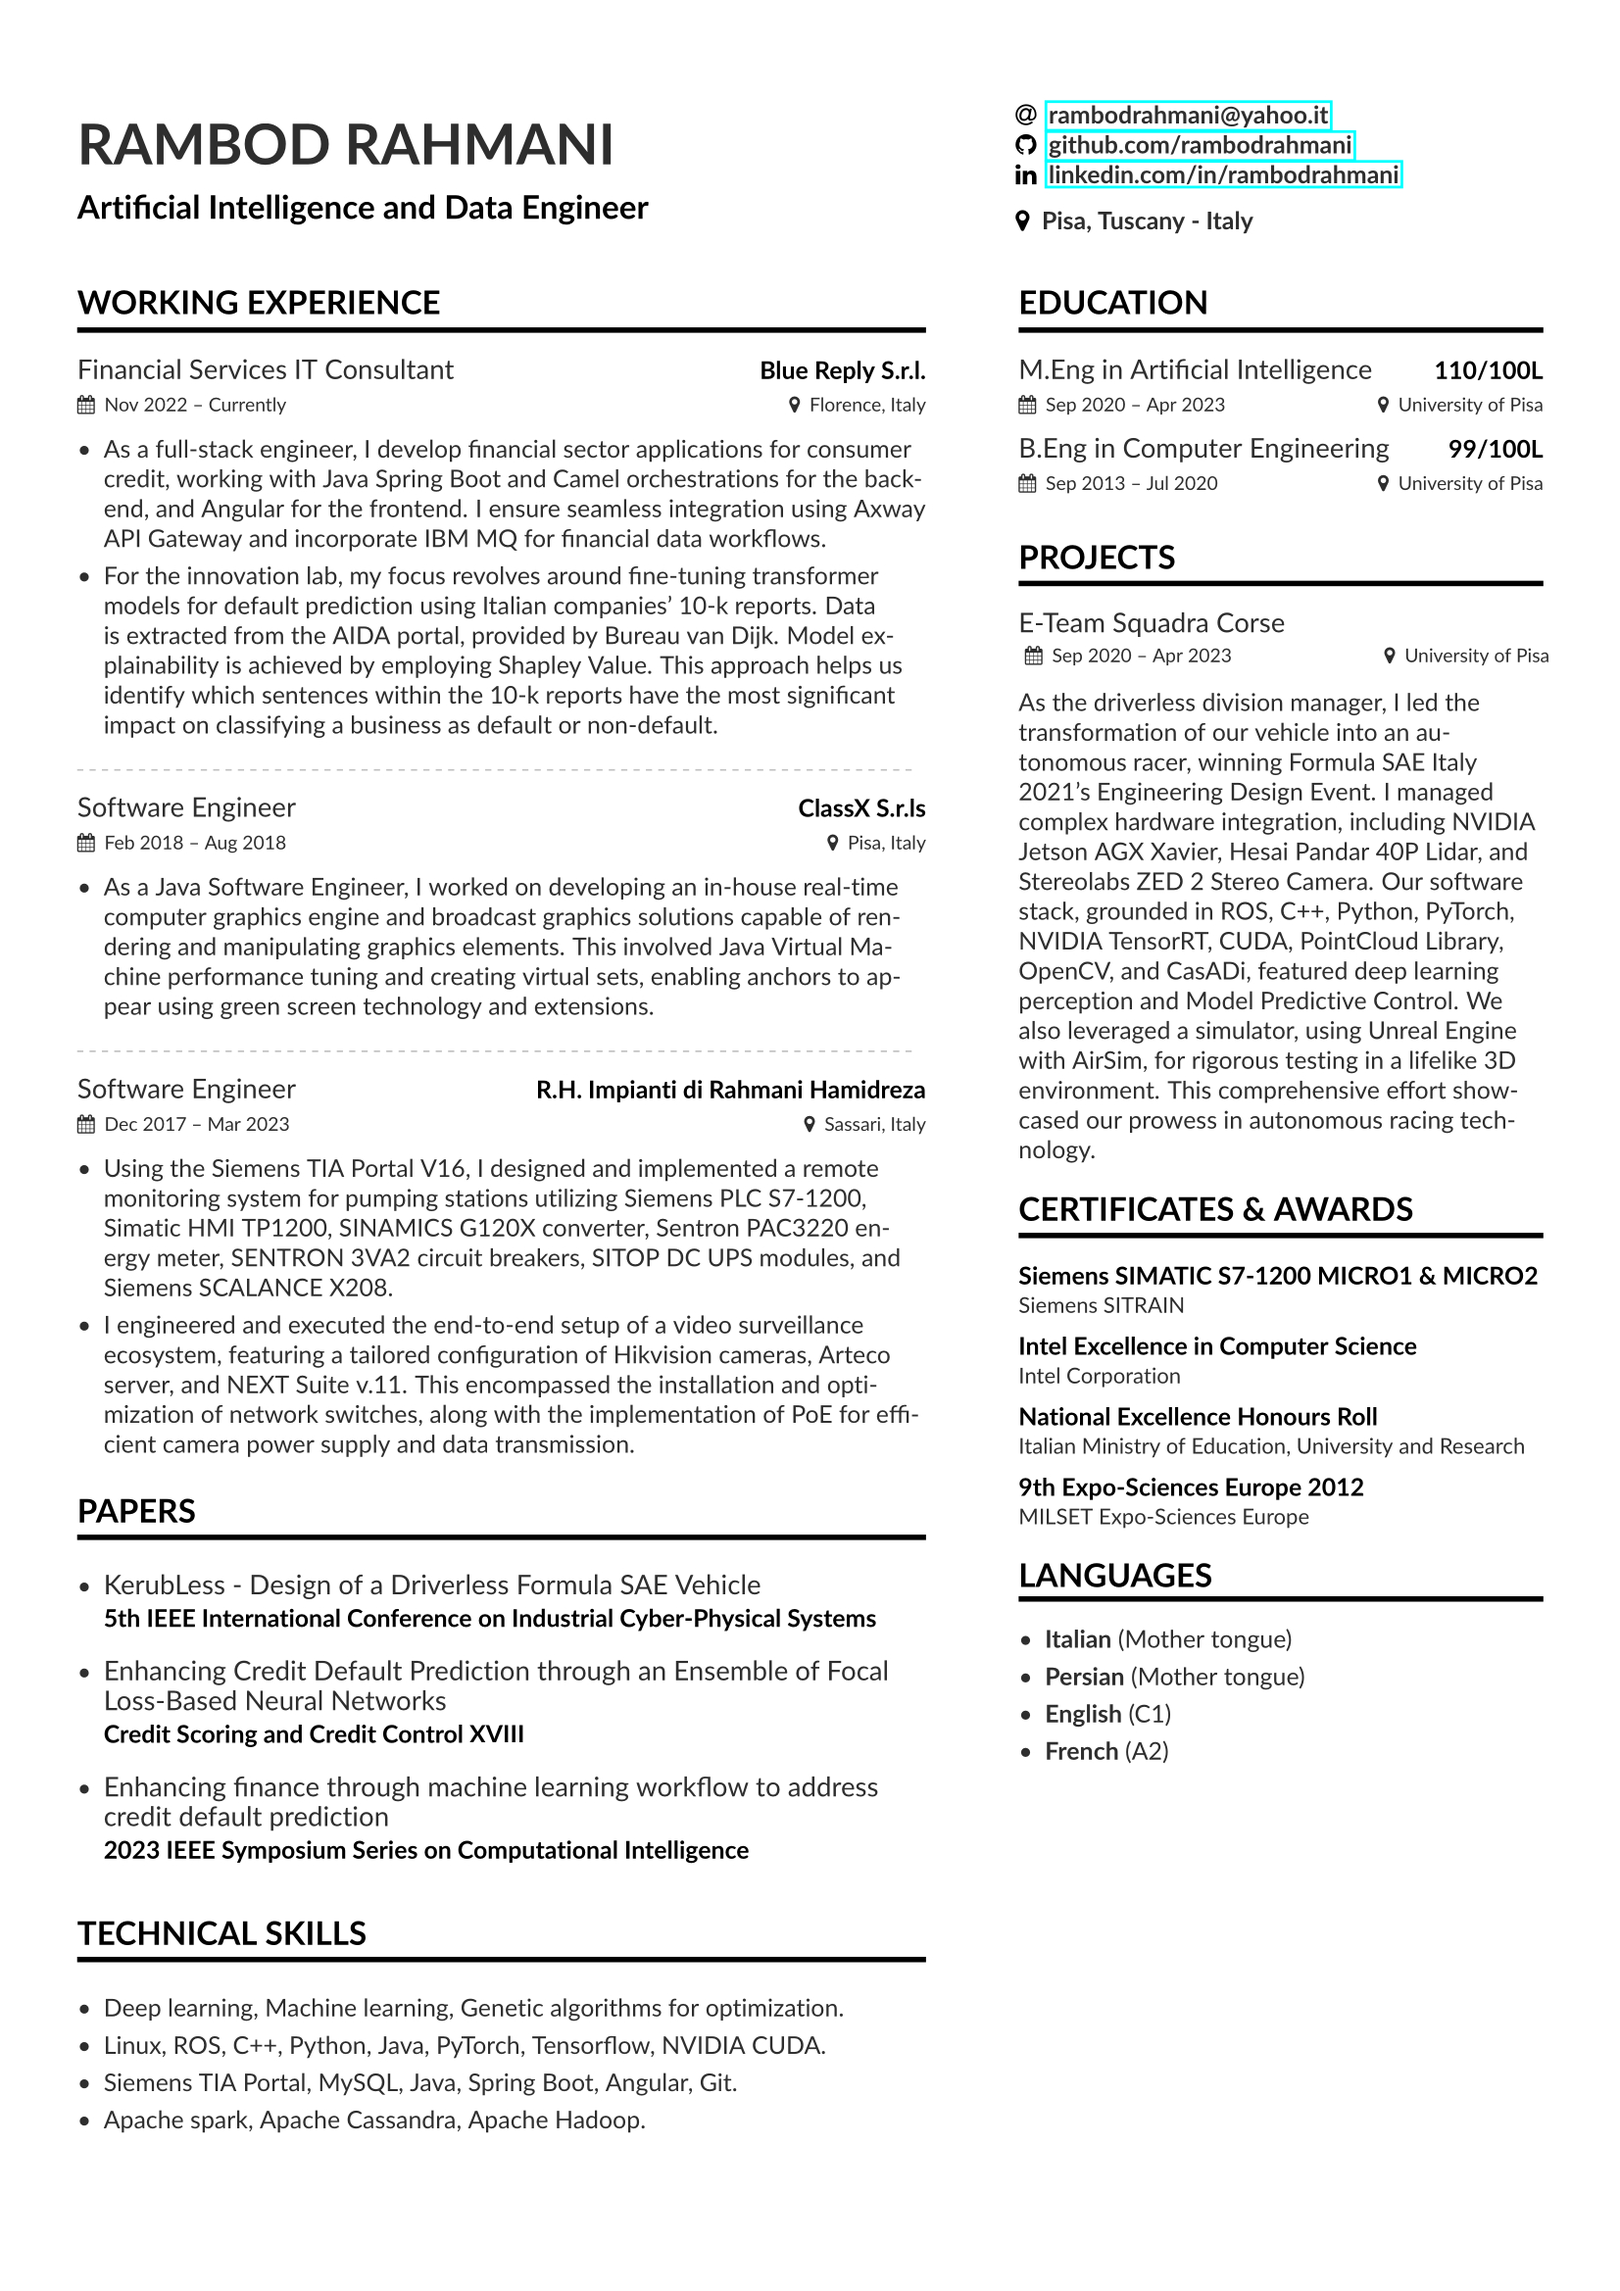
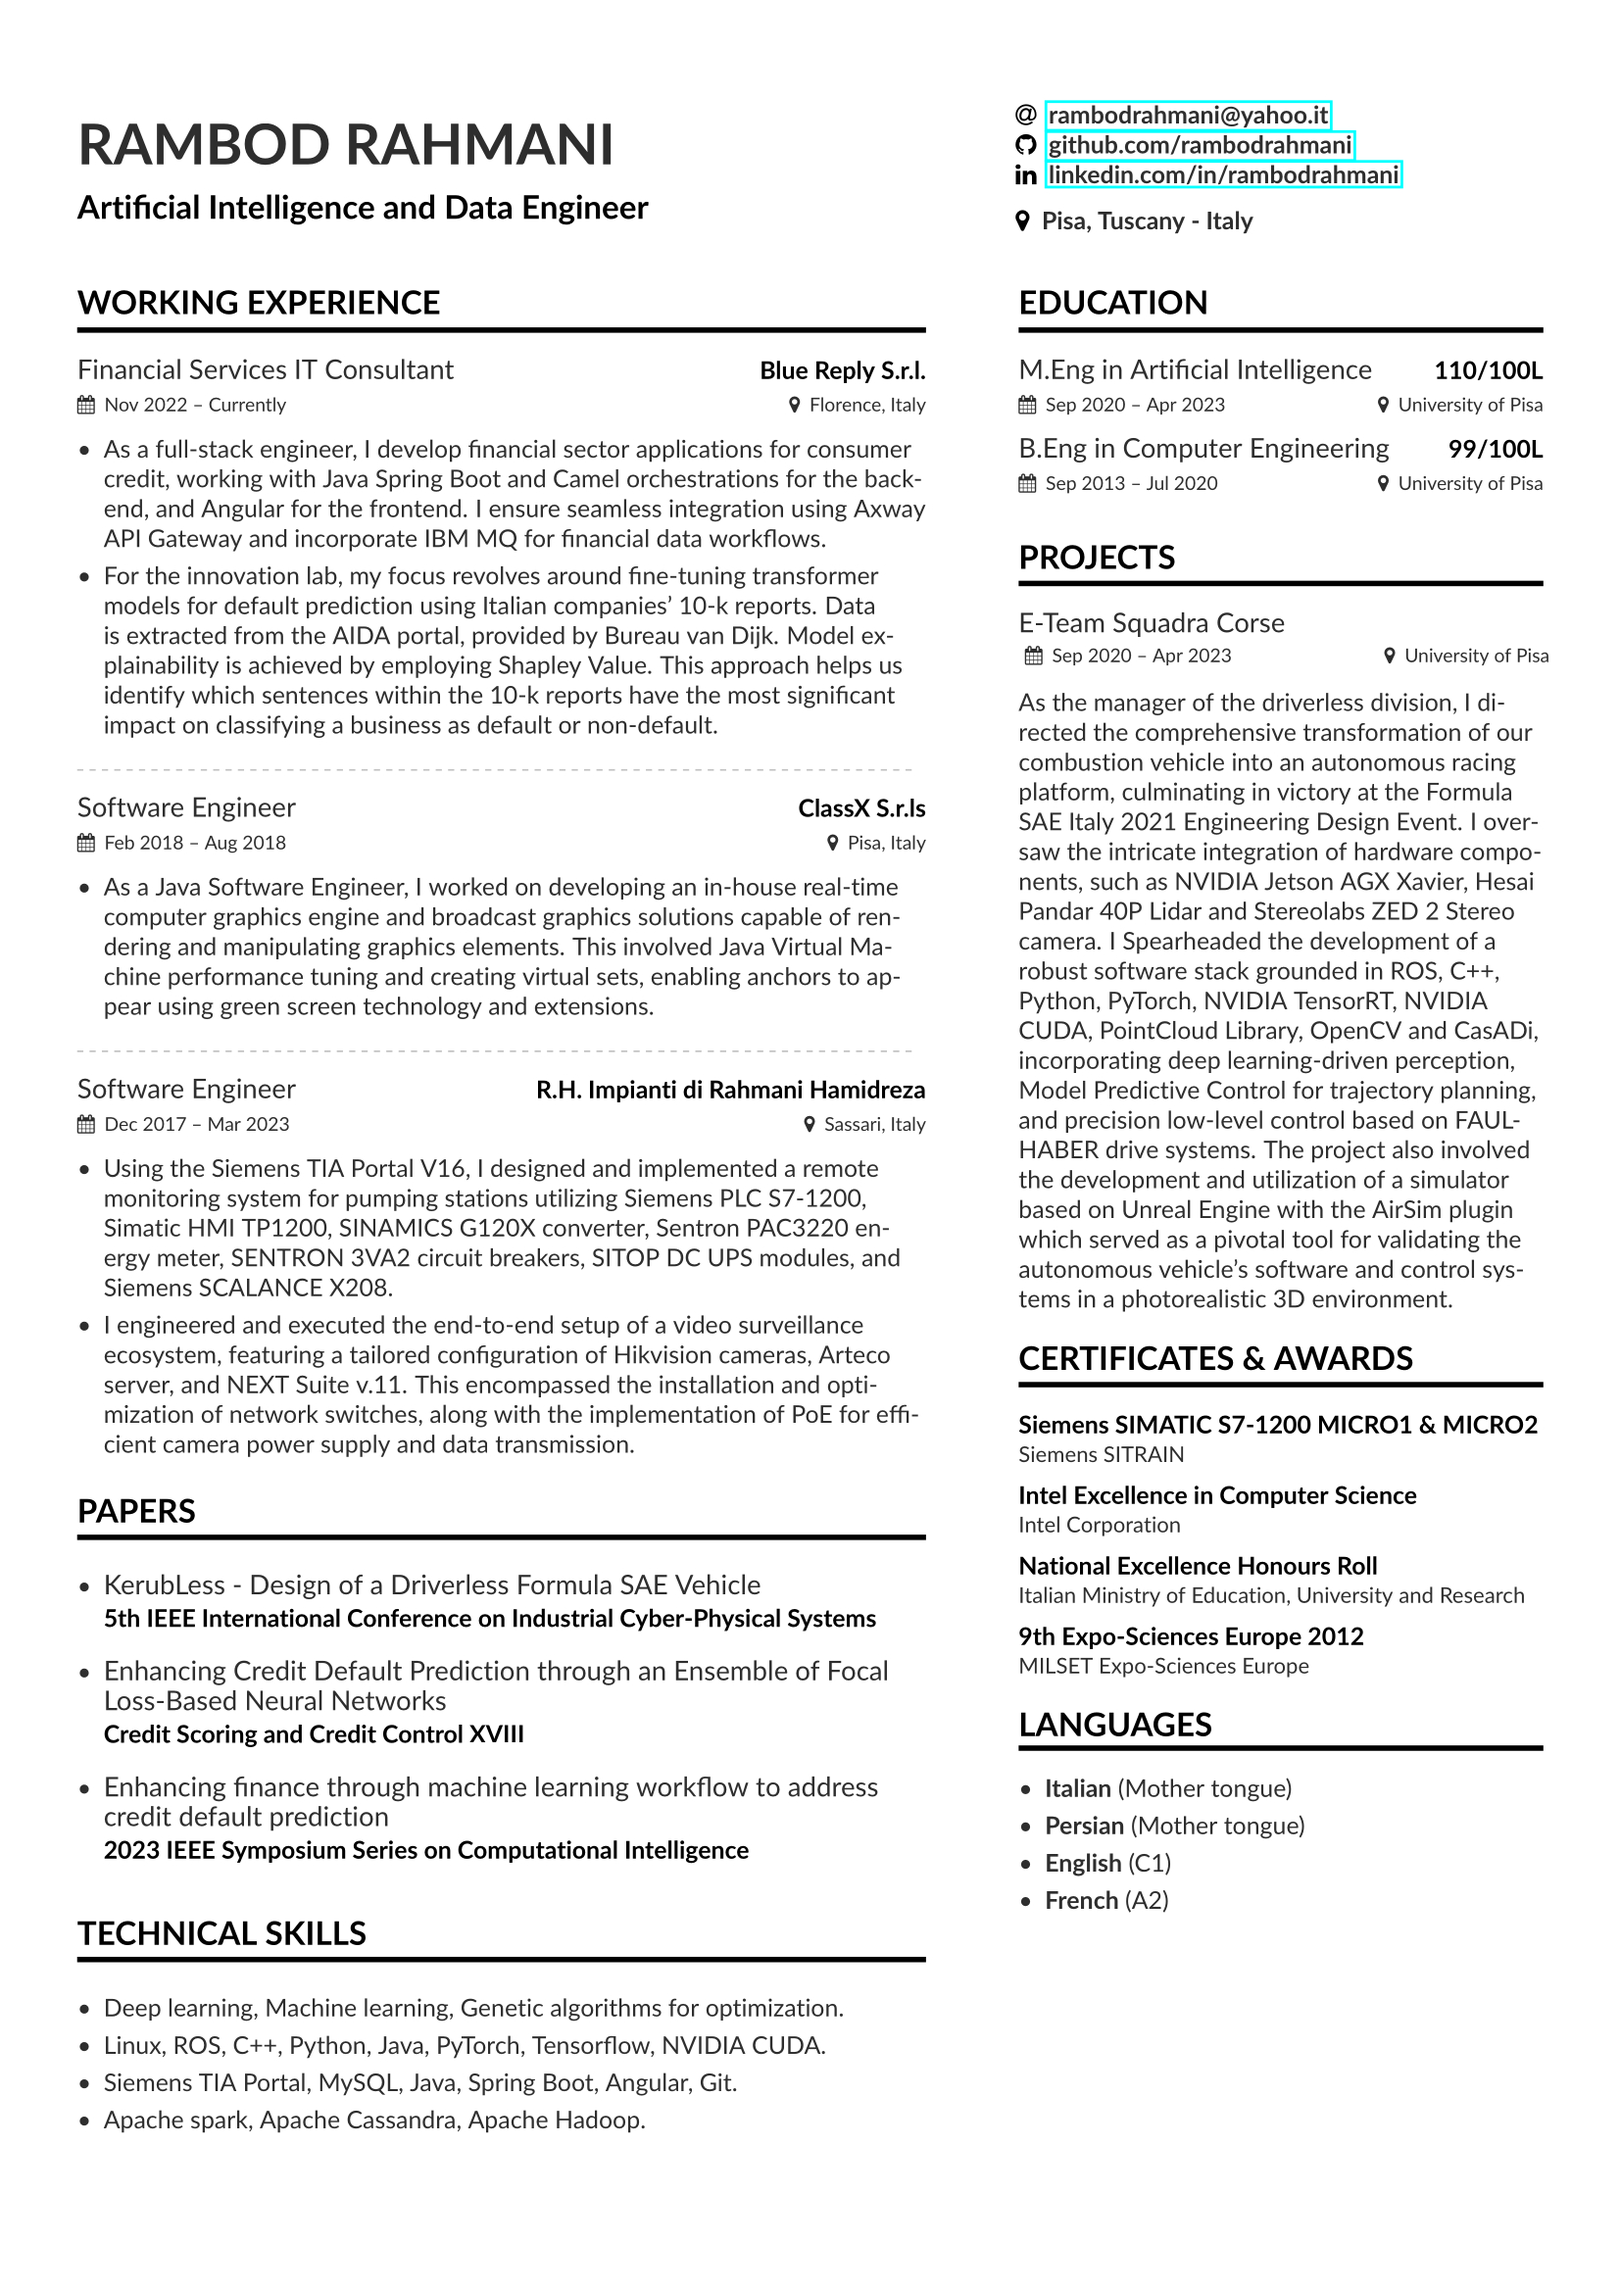
Clean up and improve CV content.

Changed region(s): [[0.6171, 0.281, 0.9564, 0.843]]

diff --git a/page1sidebar.tex b/page1sidebar.tex
@@ -29,7 +29,7 @@
 
 \cvsection{Projects}
 \cvevent{E-Team Squadra Corse}{}{Sep 2020 -- Apr 2023}{University of Pisa}
-As the driverless division manager, I led the transformation of our vehicle into an autonomous racer, winning Formula SAE Italy 2021's Engineering Design Event. I managed complex hardware integration, including NVIDIA Jetson AGX Xavier, Hesai Pandar 40P Lidar, and Stereolabs ZED 2 Stereo Camera. Our software stack, grounded in ROS, C++, Python, PyTorch, NVIDIA TensorRT, CUDA, PointCloud Library, OpenCV, and CasADi, featured deep learning perception and Model Predictive Control. We also leveraged a simulator, using Unreal Engine with AirSim, for rigorous testing in a lifelike 3D environment. This comprehensive effort showcased our prowess in autonomous racing technology.
+As the manager of the driverless division, I directed the comprehensive transformation of our combustion vehicle into an autonomous racing platform, culminating in victory at the Formula SAE Italy 2021 Engineering Design Event. I oversaw the intricate integration of hardware components, such as NVIDIA Jetson AGX Xavier, Hesai Pandar 40P Lidar and Stereolabs ZED 2 Stereo camera. I Spearheaded the development of a robust software stack grounded in ROS, C++, Python, PyTorch, NVIDIA TensorRT, NVIDIA CUDA, PointCloud Library, OpenCV and CasADi, incorporating deep learning-driven perception, Model Predictive Control for trajectory planning, and precision low-level control based on FAULHABER drive systems. The project also involved the development and utilization of a simulator based on Unreal Engine with the AirSim plugin which served as a pivotal tool for validating the autonomous vehicle's software and control systems in a photorealistic 3D environment.
 
 \cvsection{Certificates \& Awards}
 \cvproject{Siemens SIMATIC S7-1200 MICRO1 \& MICRO2}{Siemens SITRAIN}\\
